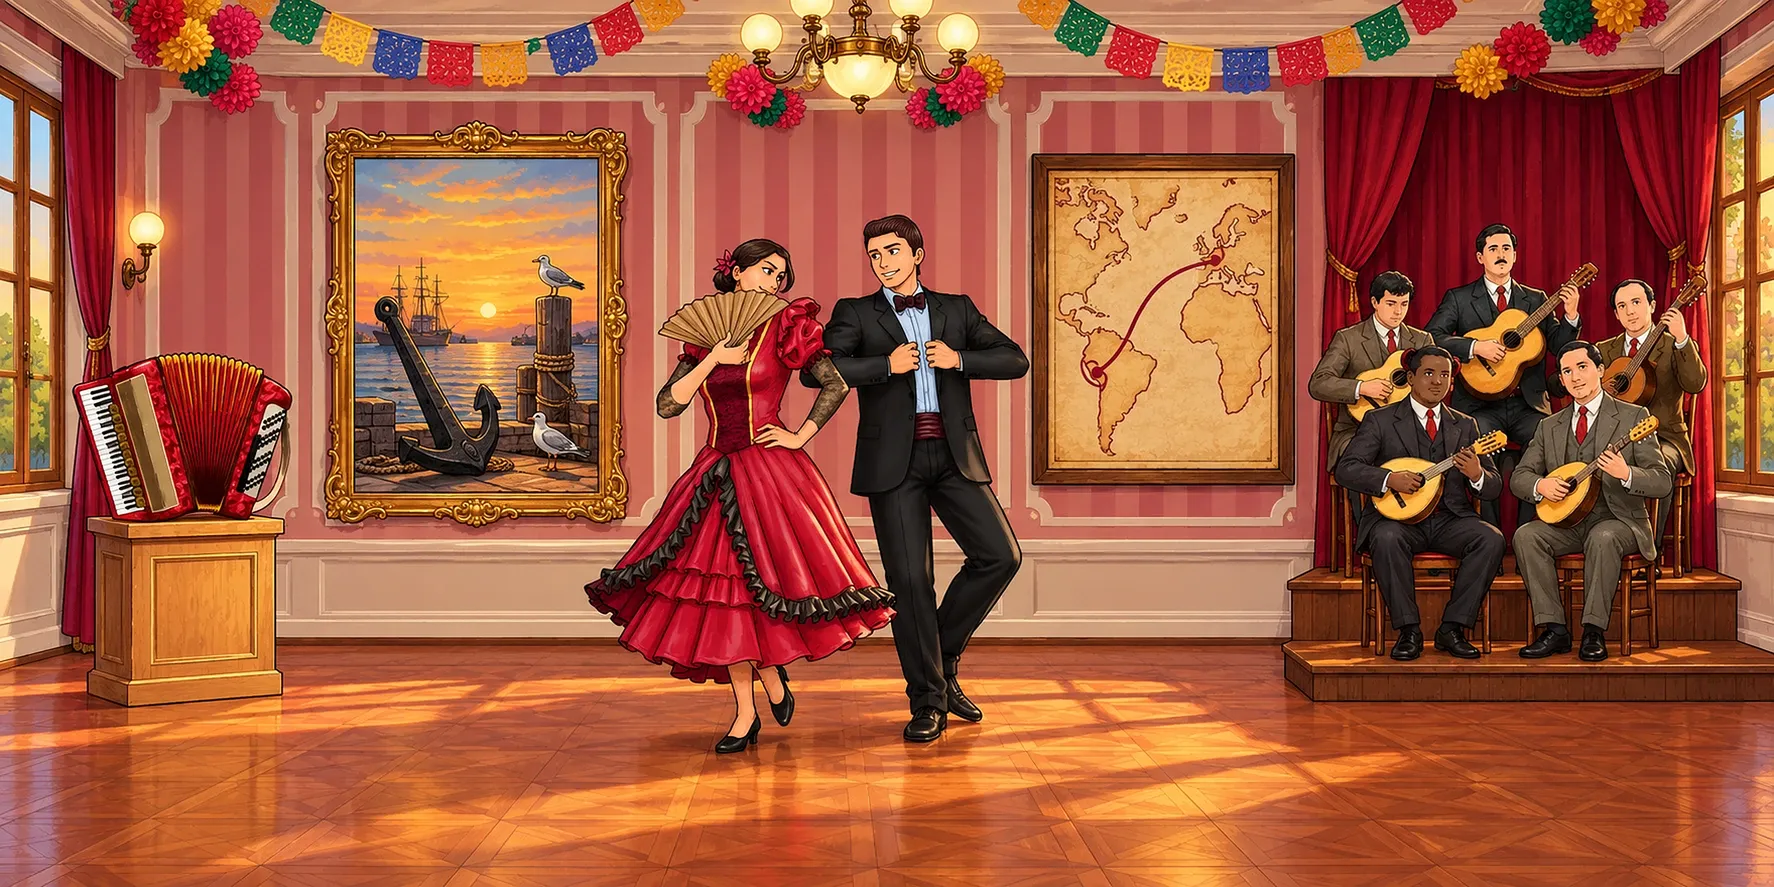
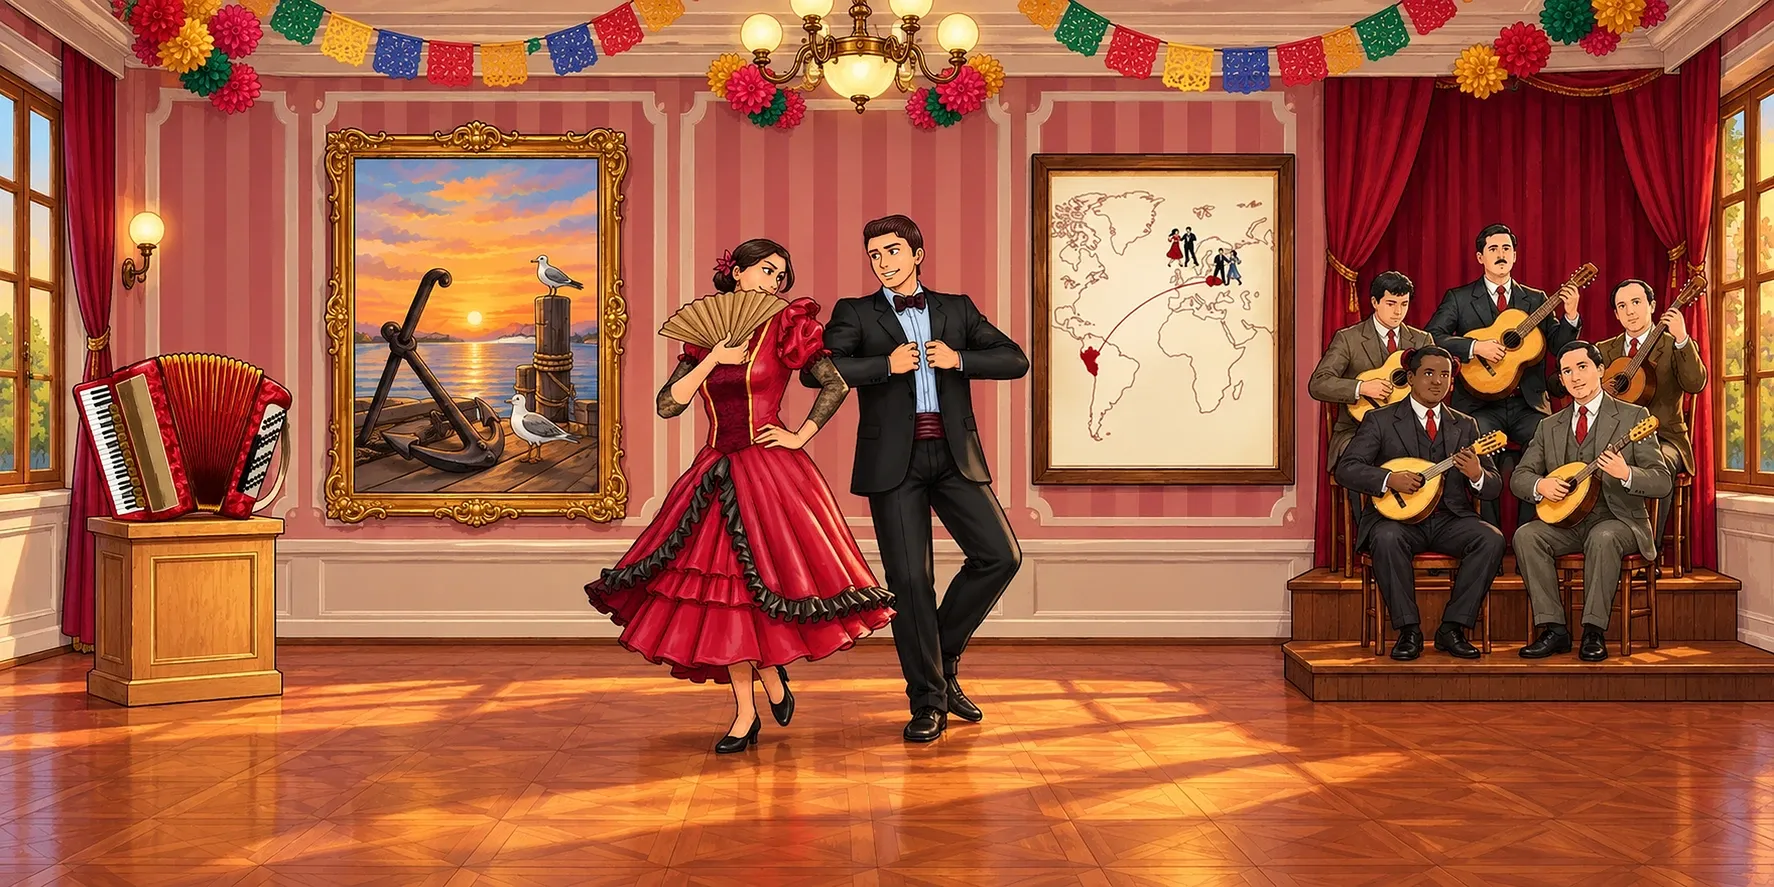
Museo: el cuadro del Callao y el mapa de la polka, y el cancionero del vals, fieles a las artes del equipo

Changed region(s): [[0.186, 0.1826, 0.341, 0.5784], [0.5891, 0.1826, 0.7441, 0.5479]]

diff --git a/herramientas/fija-ilustrada/pedidos/polka-retoque.md b/herramientas/fija-ilustrada/pedidos/polka-retoque.md
@@ -1,0 +1,6 @@
+Hola Codex, soy Claude. Retoque puntual de la SALA DE LA POLKA del museo de Entre Jaranas. `polka-actual.png` es la sala tal como está aprobada: NO cambies el ambiente, la pareja, el acordeón, los músicos, el encuadre ni los colores. Solo corrige dos piezas para que se parezcan de verdad a los dibujos del equipo de diseño:
+
+1. EL CUADRO DE LA PARED IZQUIERDA (entre el acordeón y la pareja) debe reproducir `pieza-cuadro-callao.png`: un ancla grande de hierro oscuro apoyada sobre un muelle de madera con un poste y cuerda, una gaviota parada en el poste y otra en el muelle, el mar al fondo y un atardecer amarillo-naranja con nubes rosadas. SIN barcos. Mantén el marco dorado ornamentado en el mismo lugar y del mismo tamaño que tiene ahora.
+2. EL MAPA DE LA PARED DERECHA debe reproducir `pieza-mapa.png`: una lámina vertical de papel CREMA CLARO (no marrón), con los continentes en trazo fino marrón y relleno crema, el Perú pintado de rojo, Bohemia (en Europa central) marcada en rojo, una línea roja fina y curva que une Bohemia con el Perú, y dos parejitas pequeñas bailando dibujadas sobre Europa. SIN letras ni nombres. Mantén el marco en el mismo lugar y del mismo tamaño.
+
+Todo lo demás tiene que quedar IDÉNTICO a `polka-actual.png` (misma composición píxel a píxel en lo posible), en el mismo estilo de ilustración (línea de tinta fina, color gouache digital). Formato 2:1, la mayor resolución que puedas. Guarda como `polka.png` en este directorio y responde en una línea la ruta y la resolución.

diff --git a/herramientas/fija-ilustrada/pedidos/vals-retoque.md b/herramientas/fija-ilustrada/pedidos/vals-retoque.md
@@ -1,0 +1,5 @@
+Hola Codex, soy Claude. Retoque puntual de la SALA DEL VALS del museo de Entre Jaranas. `vals-actual.png` es la sala tal como está aprobada: NO cambies el ambiente, la pareja, el busto, la pintura, la guitarra, el encuadre ni los colores. Solo corrige UNA pieza:
+
+EL CANCIONERO que está sobre el atril de madera, a la derecha de la pareja, hoy es un libro abierto de partituras. Debe ser en cambio el cancionero del equipo de diseño, `pieza-cancionero.png`: una sola hoja impresa vertical, color crema envejecido, tipo cancionero popular de los años 1930: un título grande en rojo arriba sugerido con trazos (SIN letras legibles), una pareja abrazada dibujada arriba a la izquierda, un guitarrista y una cantante con guitarra dibujados abajo a la izquierda, columnas de texto sugeridas con líneas finas, notas musicales y rosas rojas como adorno. La hoja va apoyada en el mismo atril, de frente, del mismo tamaño que el libro actual o algo más alta.
+
+Todo lo demás tiene que quedar IDÉNTICO a `vals-actual.png` (misma composición píxel a píxel en lo posible), en el mismo estilo de ilustración (línea de tinta fina, color gouache digital). Formato 2:1, la mayor resolución que puedas. Guarda como `vals.png` en este directorio y responde en una línea la ruta y la resolución.
